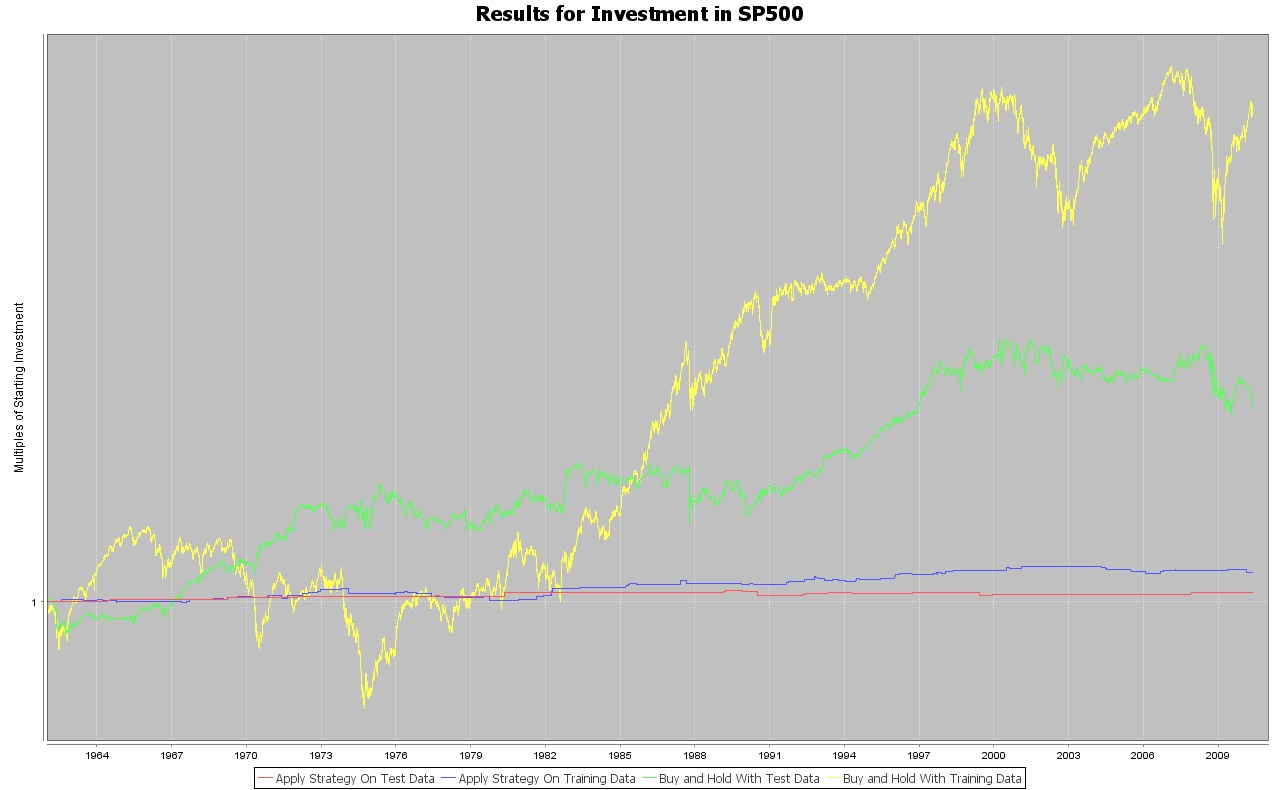
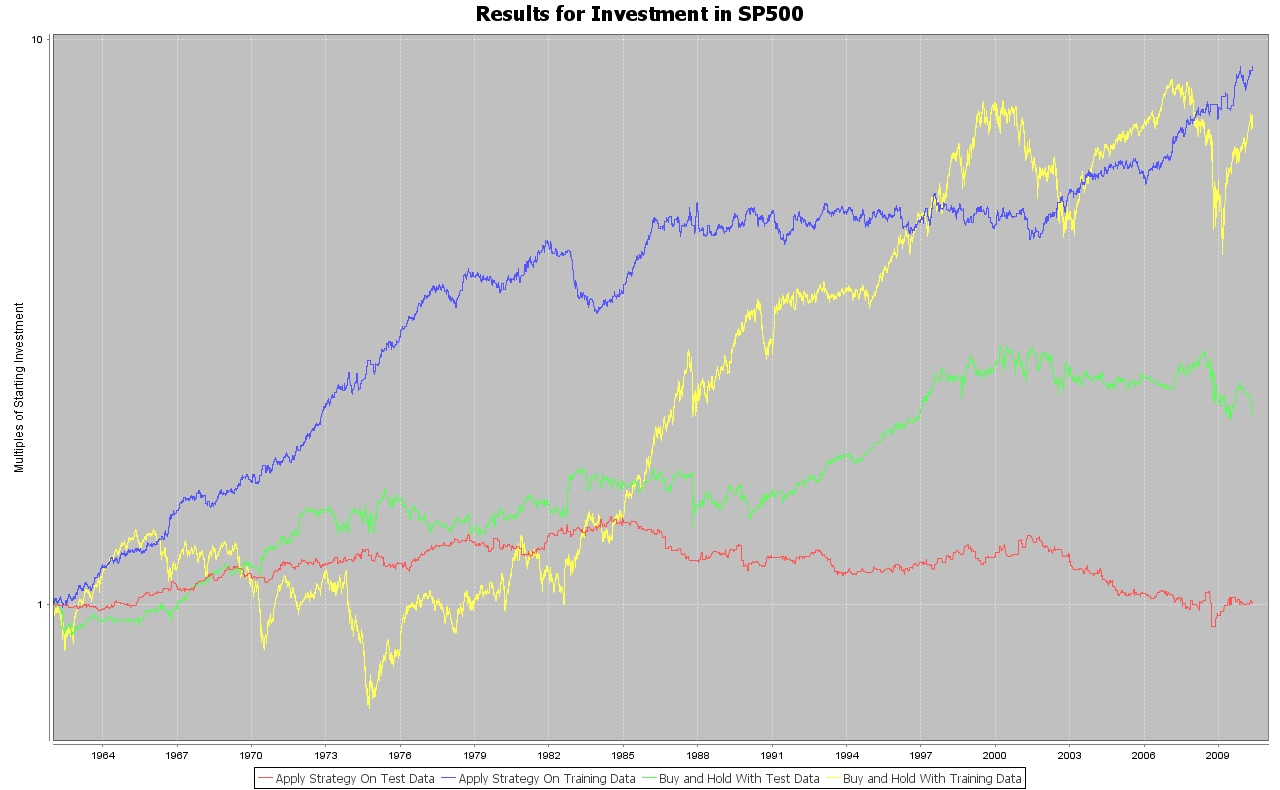
revised recommendations to use the total net prediction, rather than just a one-classifier-one-vote poll

diff --git a/lesrclass/rules/RuleSetXCSFImpl.java b/lesrclass/rules/RuleSetXCSFImpl.java
@@ -40,7 +40,7 @@ public class RuleSetXCSFImpl implements RuleSet {
 		
 	}
 
-	@Override
+/*	@Override
 	public RecType getRecommendation(double[] inputs, double[] outputs) {
 		RecType recommendation;	
 		int totalRec = 0;
@@ -59,6 +59,29 @@ public class RuleSetXCSFImpl implements RuleSet {
 			if(rec == RecType.LONG) totalRec += 1;
 			else if(rec == RecType.SHORT) totalRec -= 1;
 		}
+		if(totalRec > 0) recommendation = RecType.LONG;
+		else if (totalRec < 0) recommendation = RecType.SHORT;
+		else recommendation = RecType.DONOTHING;
+//		System.out.println("totalRec: " + totalRec + " recommendation: " + recommendation. toString());
+		return recommendation;
+	}
+*/
+
+	@Override
+	public RecType getRecommendation(double[] inputs, double[] outputs) {
+		RecType recommendation;	
+		double totalRec = 0;
+		
+		StateDescriptor state = new StateDescriptor(inputs, outputs);
+		
+		for (Rule rule:rules) {
+			if(rule.getClassifier().doesMatch(state)){
+				
+				totalRec += (rule.getPrediction(state));
+//				System.out.println("prediction:  "+ rule.getPrediction(state));
+			}			
+		}
+		
 		if(totalRec > 0) recommendation = RecType.LONG;
 		else if (totalRec < 0) recommendation = RecType.SHORT;
 		else recommendation = RecType.DONOTHING;

diff --git a/lesrclass/rules/RuleXcsfImpl.java b/lesrclass/rules/RuleXcsfImpl.java
@@ -40,8 +40,26 @@ public class RuleXcsfImpl extends Rule {
 		
 		return recommendation;
 	}
-	
 
+	public double getPrediction(StateDescriptor state){
+		classifier.predict(state);
+		Prediction prediction = classifier.getPrediction();
+		double[] input = state.getPredictionInput();
+		 
+		double[] centeredInput = state.getPredictionInput();
+		for(int i = 0; i < centeredInput.length; i++)
+			centeredInput[i] -= classifier.getCondition().getCenter()[i];
+		
+		double[] predChange = prediction.predict(centeredInput);
+	
+		double predNum = predChange[0] - 100;
+		
+		return predNum;
+	}
+
+	
+	
+	
 	@Override
 	public void goShort(){
 		recommendation = RecType.SHORT;

diff --git a/lesrclass/inputGenerators/InputGenerator5.java b/lesrclass/inputGenerators/InputGenerator5.java
@@ -5,12 +5,12 @@ import LESRData.PriceData;
 
 public class InputGenerator5 implements InputGenerator {
 
-int dim;
+int dim = 4;
 	
 	public int getDim(){return dim;}
 	public double[] generateInput(PriceData hist, int currtick) {
 		
-		double[] input = new double[4];
+		double[] input = new double[dim];
 		
 		input[0] = currtick > 0? (hist.getAdjClose(currtick) / hist.getAdjClose(currtick - 1))*100 : 100.0;
 		input[1] = currtick >= 0? (hist.getAdjClose(currtick) / hist.getHigh(currtick))*100 : 100.0;

diff --git a/lesrclass/Test/JxcsfRuleSetTest.java b/lesrclass/Test/JxcsfRuleSetTest.java
@@ -47,7 +47,7 @@ public class JxcsfRuleSetTest {
 			
 	}
 	
-
+	@Ignore
 	@Test
 	public void testFunctionAndRules(){
 		
@@ -89,7 +89,6 @@ public class JxcsfRuleSetTest {
 		assertNotNull(rulemaker.getRuleset());
 	}
 
-	@Ignore
 	@Test
 	public void testRules(){
 		FunctionApproxToRules rulemaker = new XcsfRlsFunctionApproxToRulesImpl();

diff --git a/lesrclass/rules/Rule.java b/lesrclass/rules/Rule.java
@@ -21,5 +21,8 @@ public abstract class Rule {
 	public abstract RecType getRecommendation();
 	
 	public abstract RecType getRecommendation(StateDescriptor state);
+	
+	public abstract double getPrediction(StateDescriptor state);
+		
 
 }
